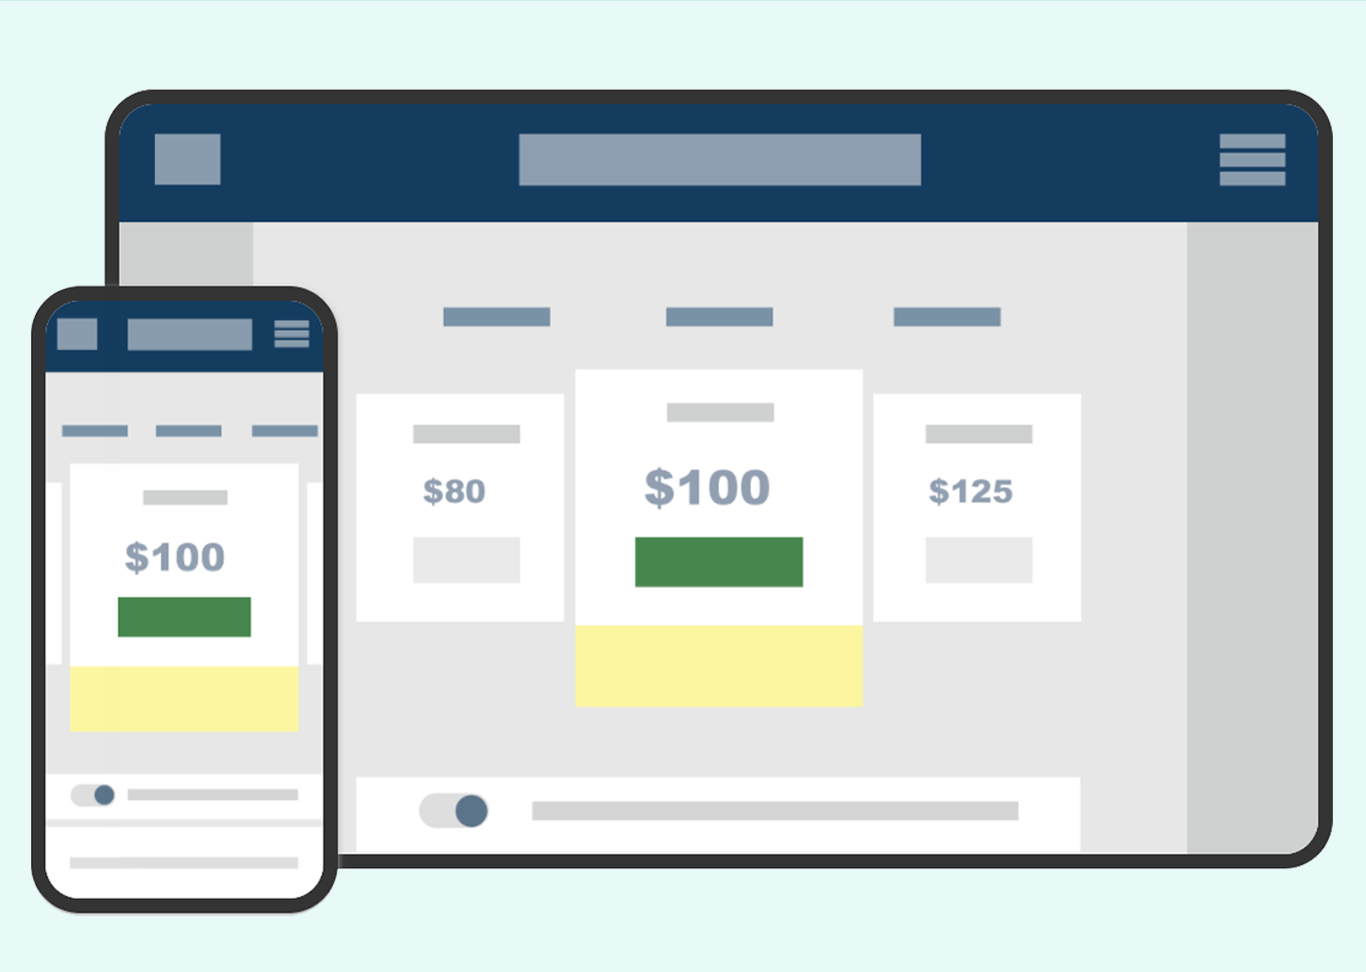
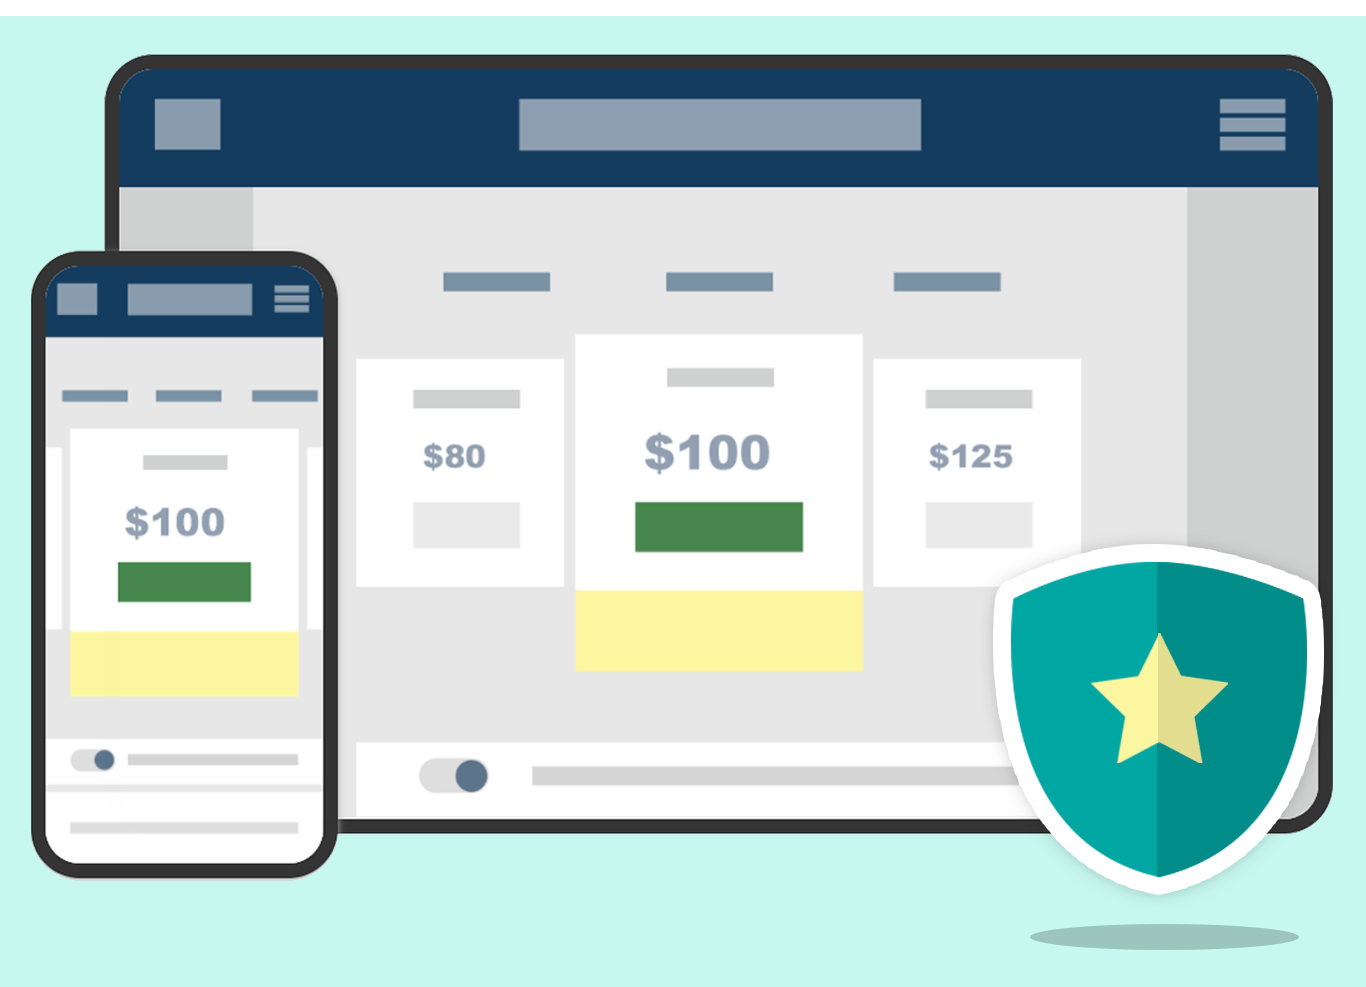
image updates

diff --git a/new-styles.css b/new-styles.css
@@ -235,7 +235,7 @@ button.bg-primary:focus {
 }
 
 .air-container .bg-secondary {
-    background-color: #e8faf7 !important;
+    background-color: #dbfbf6 !important;
 }
 
 .bg-tertiary {
